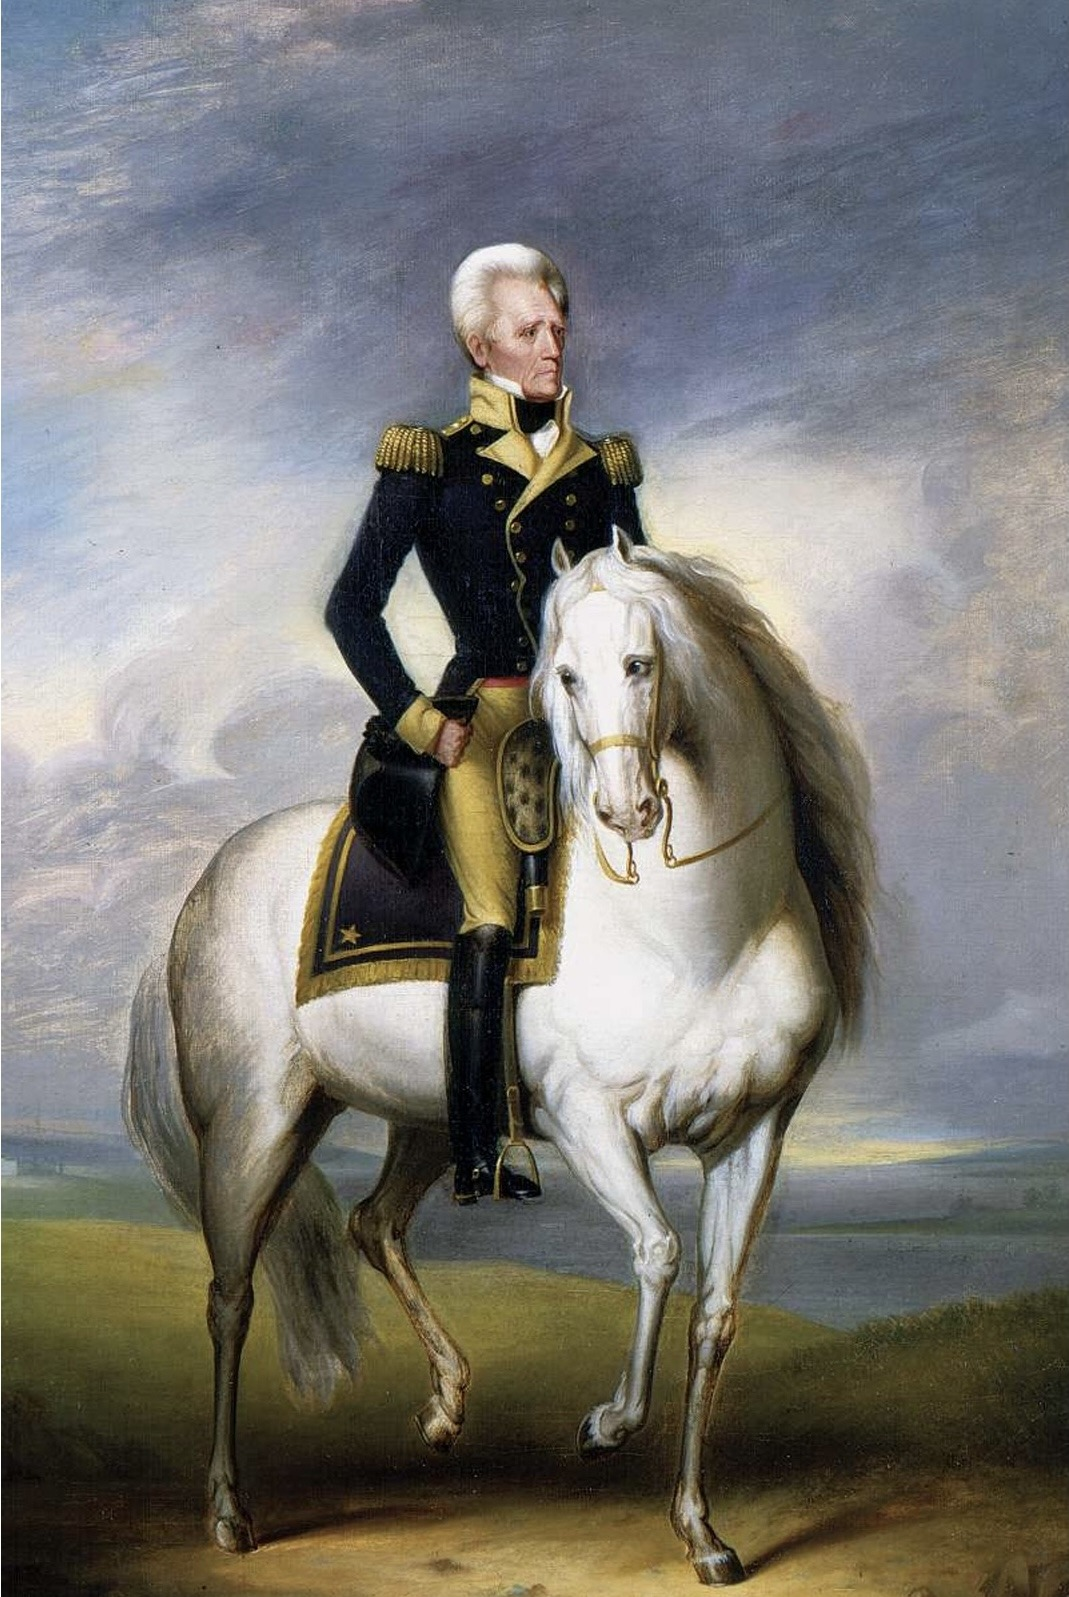
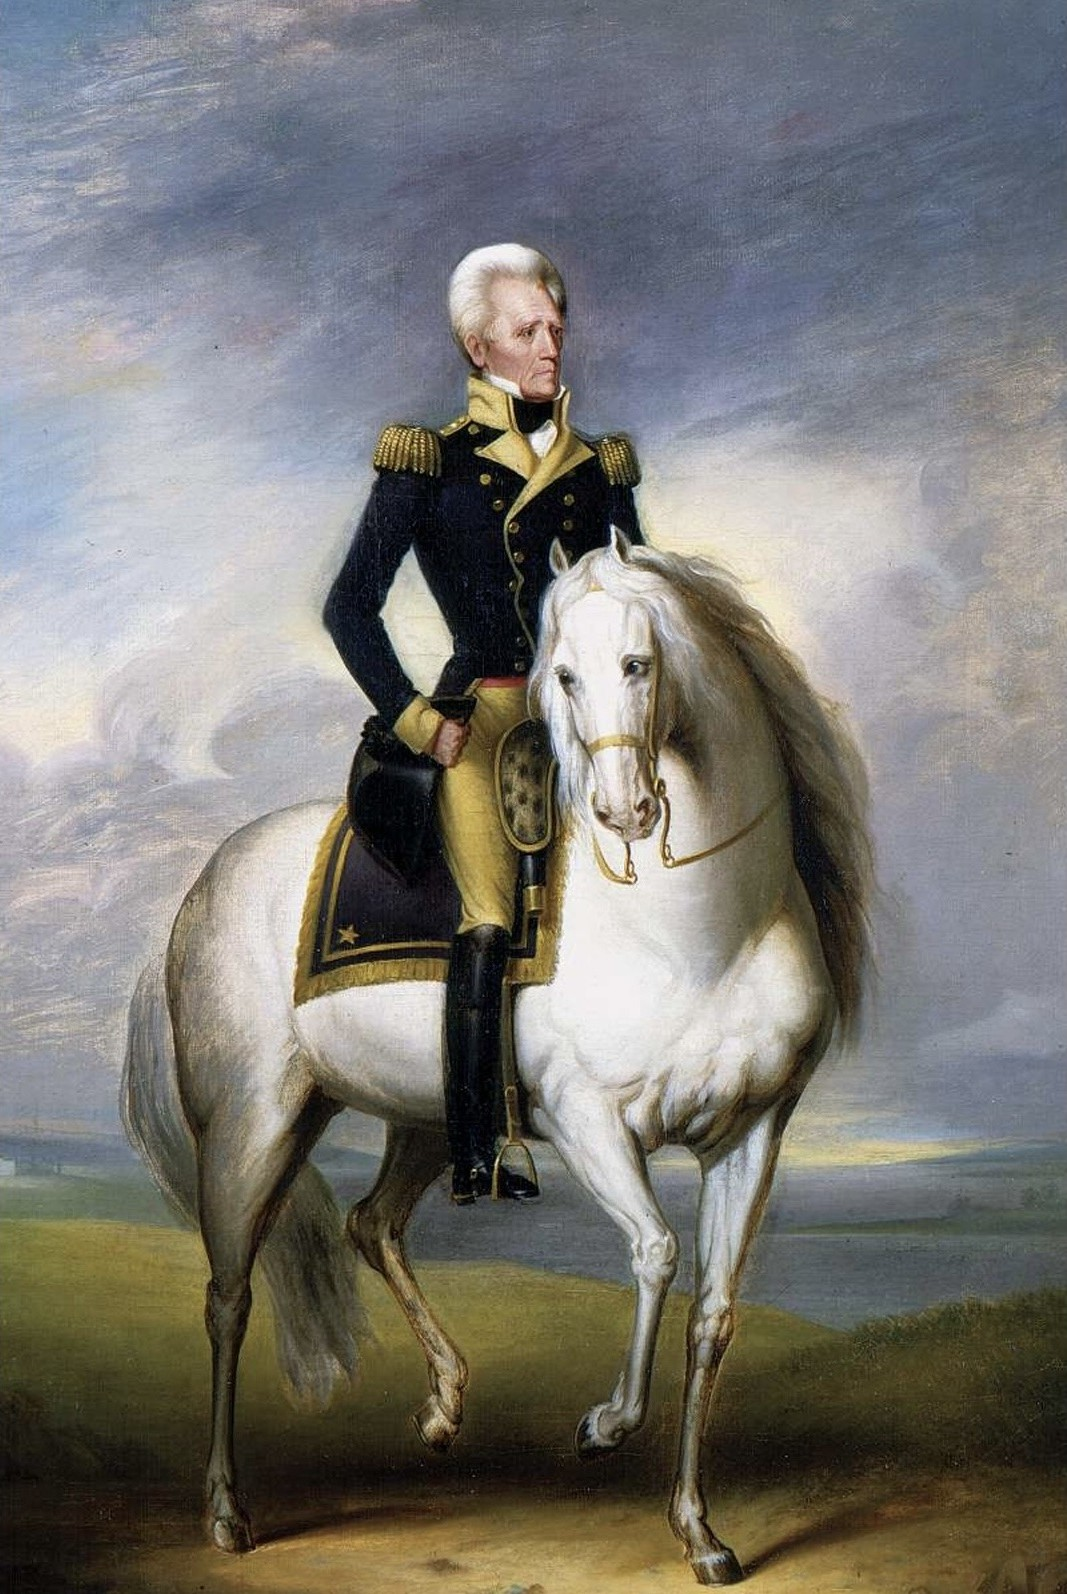
Add files via upload

diff --git a/unit-6.html b/unit-6.html
@@ -441,8 +441,8 @@ class Component extends DCLogic {
     const introParas = d ? hd.slice(hasBy ? 5 : 4) : [];
     const ufig = (key, ratio, maxW, caption, credit) => ({ isImage: true, slot: 'u6-' + key, src: '' + key + '.jpg', ratio, maxW, caption, credit: 'Credit: ' + credit });
     const introFigs = {
-      1: [ufig('river-city-steamboats', '1000/677', '680px', 'Our City (St. Louis, Mo.), color lithograph by A. Janicke & Co., published by Hagen & Pfau at the Anzeiger des Westens, St. Louis, 1859.', 'Library of Congress, Prints and Photographs Division, LC-USZC4-3168. No known restrictions on publication'), ufig('homer-bell-time-1868', '1000/693', '680px', 'Winslow Homer, New England Factory Life: “Bell-Time,” wood engraving, Harper’s Weekly, July 25, 1868, page 472.', 'Wikimedia Commons. Sharpened and toned for this edition')],
-      2: [ufig('earl-jackson-sam-patch', '1069/1597', '440px', 'Ralph E. W. Earl, Andrew Jackson, on his horse Sam Patch, about 1833.', 'Andrew Jackson’s Hermitage, Nashville. Public domain')]
+      1: [ufig('river-city-steamboats', '982/646', '680px', 'Our City (St. Louis, Mo.), color lithograph by A. Janicke & Co., published by Hagen & Pfau at the Anzeiger des Westens, St. Louis, 1859.', 'Library of Congress, Prints and Photographs Division, LC-USZC4-3168. No known restrictions on publication'), ufig('homer-bell-time-1868', '1000/693', '680px', 'Winslow Homer, New England Factory Life: “Bell-Time,” wood engraving, Harper’s Weekly, July 25, 1868, page 472.', 'Wikimedia Commons. Sharpened and toned for this edition')],
+      2: [ufig('earl-jackson-sam-patch', '1067/1594', '440px', 'Ralph E. W. Earl, Andrew Jackson, on his horse Sam Patch, about 1833.', 'Andrew Jackson’s Hermitage, Nashville. Public domain')]
     };
     const introBlocks = []; introParas.forEach((p, i) => { introBlocks.push({ isP: true, text: p }); (introFigs[i] || []).forEach(w => introBlocks.push(w)); });
     const hasIntro = !d || hasEp || introParas.length > 0;
